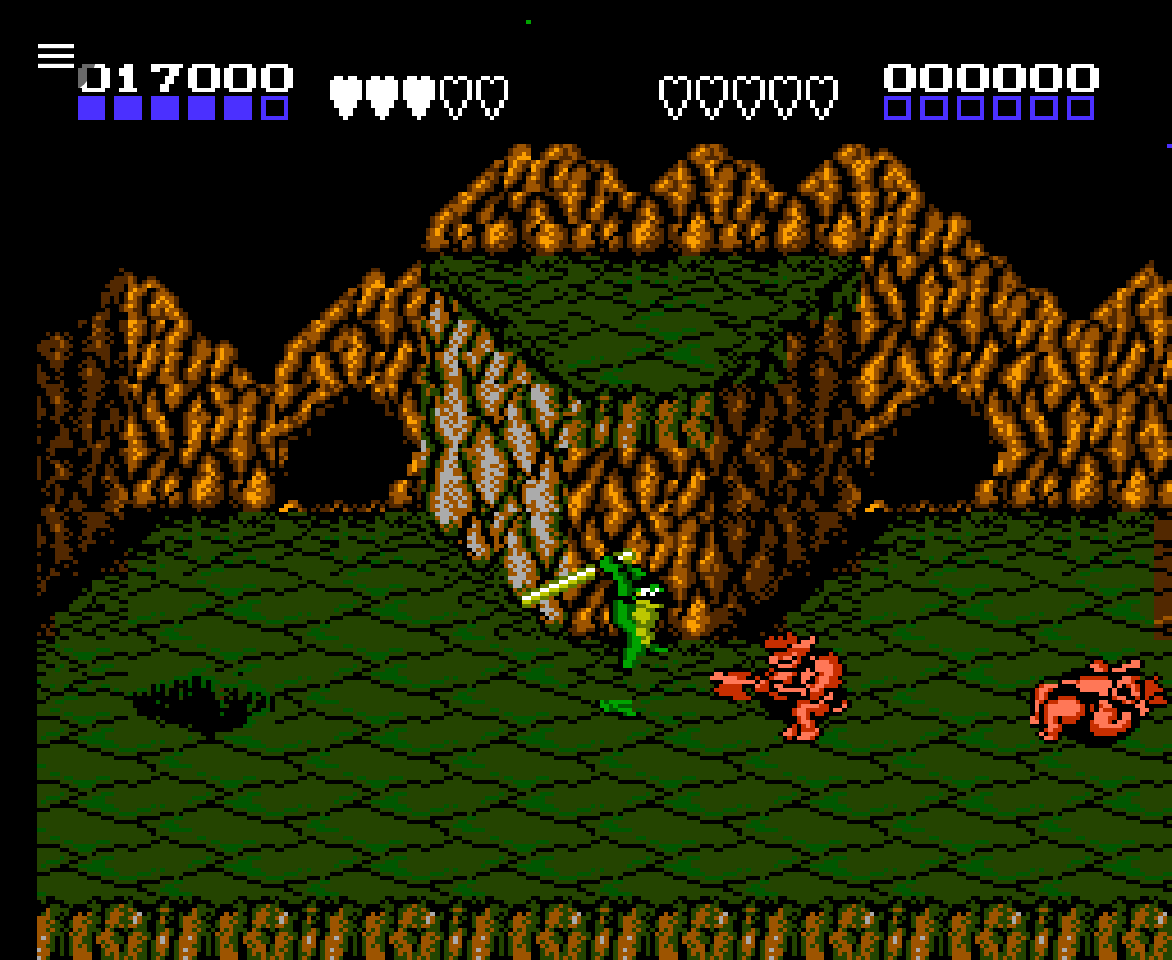
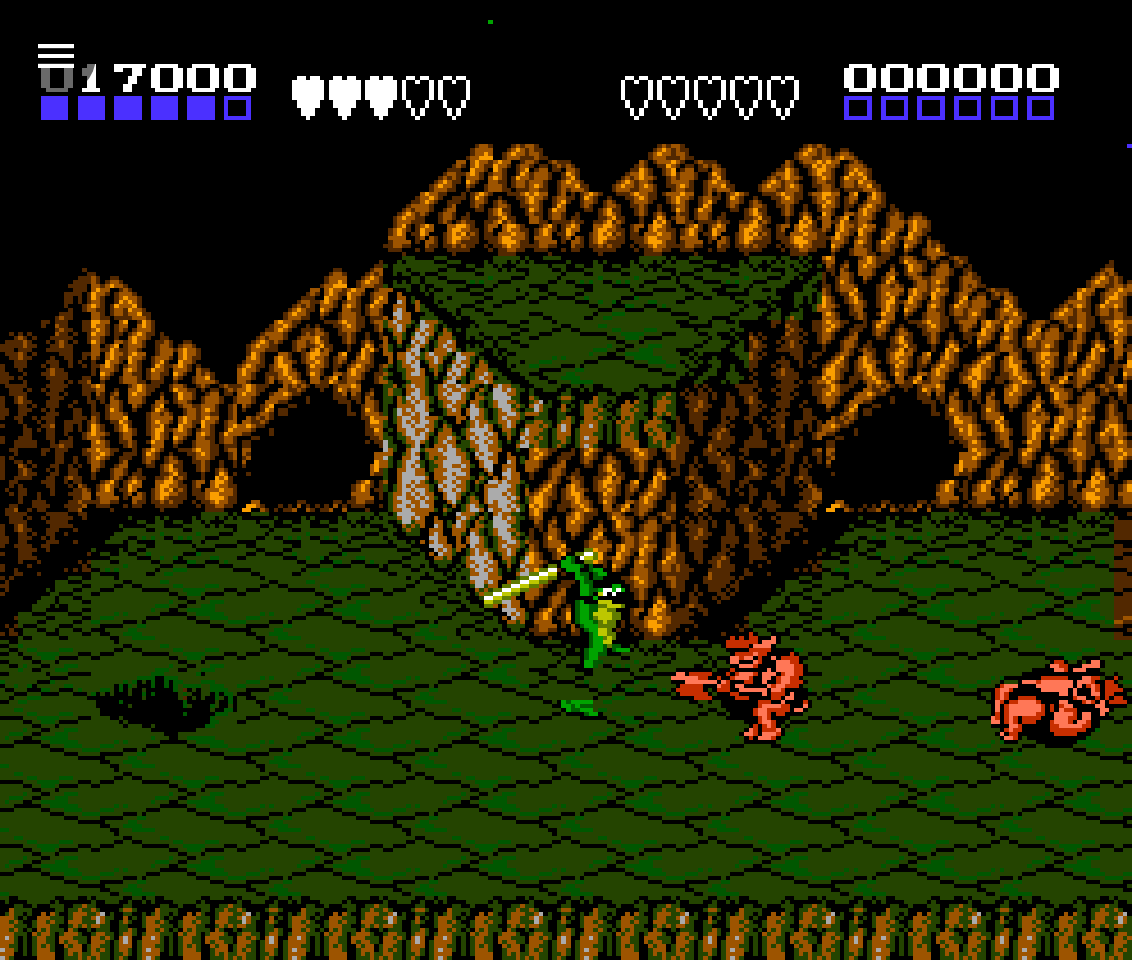
Update screenshots

diff --git a/packages/nesd/test/screenshots/readme_screenshots_test.dart b/packages/nesd/test/screenshots/readme_screenshots_test.dart
@@ -18,7 +18,10 @@ import 'package:flutter_test/flutter_test.dart';
 import 'package:nesd/ui/common/rom_tile.dart';
 import 'package:nesd/ui/emulator/display.dart';
 import 'package:nesd/ui/emulator/nes_controller.dart';
+import 'package:nesd/ui/emulator/overscan.dart';
 import 'package:nesd/ui/file_picker/file_system/filesystem_file.dart';
+import 'package:nesd/ui/file_picker/file_system/native_storage_filesystem.dart';
+import 'package:nesd/ui/file_picker/file_system/storage_filesystem.dart';
 import 'package:nesd/ui/router/router.dart';
 import 'package:nesd/ui/router/router_observer.dart';
 import 'package:nesd/ui/save_states/save_states_screen.dart';
@@ -30,8 +33,12 @@ const _romsDir = '../../roms/readme';
 const _statesDir = 'test/screenshots/states';
 const _docs = '../../docs';
 
-// NTSC NES display at 2x
-const _gameSize = Size(586, 480);
+// NTSC frame and pixel aspect ratio, shown at 2x
+const _frameWidth = 256;
+const _frameHeight = 240;
+const _pixelAspectRatio = 8 / 7;
+const _gameScale = 2.0;
+
 const _desktopSize = Size(1440, 900);
 const _desktopRatio = 2.0;
 
@@ -46,8 +53,66 @@ const _fixSmb = 'Super Mario Bros';
 const _fixSmb3 = 'Super Mario Bros. 3';
 const _fixZelda = 'The Legend Of Zelda';
 
-/// States saved into slots for the save-states screenshot.
 const _saveSlotStates = ['smb_slot0', 'smb_slot1', 'smb_slot2', 'smb_slot3'];
+
+const _overscan = {
+  _fixBattletoads: Overscan(left: 8, top: 0, bottom: 0),
+  _fixKirby: Overscan(left: 8, top: 0),
+  _fixPunchOut: Overscan.none,
+  _fixSmb: Overscan.none,
+  _fixSmb3: Overscan(top: 0),
+  _fixZelda: Overscan.none,
+};
+
+Overscan _overscanFor(String rom) => _overscan[rom] ?? const Overscan();
+
+class _PinnedTimeStorage implements StorageFilesystem {
+  _PinnedTimeStorage(this._inner);
+
+  final StorageFilesystem _inner;
+  final _modified = <String, DateTime>{};
+
+  static final _start = DateTime(2026, 9, 6, 12);
+
+  @override
+  Future<void> write(String path, Uint8List data) async {
+    await _inner.write(path, data);
+
+    if (path.endsWith('.state')) {
+      _modified[path] ??= _start.add(Duration(minutes: 5 * _modified.length));
+    }
+  }
+
+  @override
+  Future<DateTime?> lastModified(String path) async =>
+      _modified[path] ?? await _inner.lastModified(path);
+
+  @override
+  Future<void> delete(String path) async {
+    _modified.remove(path);
+
+    await _inner.delete(path);
+  }
+
+  @override
+  Future<Uint8List?> read(String path) => _inner.read(path);
+
+  @override
+  Future<bool> exists(String path) => _inner.exists(path);
+
+  @override
+  Future<List<String>> list(String directory) => _inner.list(directory);
+
+  @override
+  Future<void> createDirectory(String path) => _inner.createDirectory(path);
+}
+
+Size _gameWindow(Overscan overscan) {
+  final visible = overscan.visibleRect(_frameWidth, _frameHeight).size;
+  final width = (visible.width * _pixelAspectRatio).round();
+
+  return Size(width * _gameScale, visible.height * _gameScale);
+}
 
 Uint8List? _readOptional(String path) {
   final file = File(path);
@@ -89,6 +154,8 @@ Map<String, Uint8List>? _fixtures(List<String> roms, {List<String>? states}) {
 }
 
 Future<void> _startFromState(Robot r, String rom, {String? state}) async {
+  r.settings.overscan = _overscanFor(rom);
+
   var started = false;
 
   unawaited(
@@ -111,7 +178,6 @@ Future<void> _startFromState(Robot r, String rom, {String? state}) async {
   await r.waitUntil(
     () => r.container.read(currentRouteProvider) == EmulatorRoute.name,
   );
-  // await r.waitUntil(() => find.byType(MainMenu).evaluate().isEmpty);
 
   // let the route transition finish
   await r.pumpFrames(const Duration(milliseconds: 200));
@@ -201,7 +267,7 @@ void main() {
 
       await r.pumpApp(
         extraFiles: files,
-        logicalSize: _gameSize,
+        logicalSize: _gameWindow(_overscanFor(name)),
         devicePixelRatio: _desktopRatio,
       );
 
@@ -243,6 +309,7 @@ void main() {
       extraFiles: files,
       logicalSize: _desktopSize,
       devicePixelRatio: _desktopRatio,
+      storage: _PinnedTimeStorage(NativeStorageFilesystem()),
     );
 
     for (final (slot, state) in _saveSlotStates.indexed) {

diff --git a/packages/nesd/test/screenshots/play_screenshots_test.dart b/packages/nesd/test/screenshots/play_screenshots_test.dart
@@ -20,13 +20,14 @@ const _pixelRatio = 3.0;
 
 Future<Robot> _phoneApp(
   WidgetTester tester, {
+  Size size = _logicalSize,
   Map<String, Uint8List> extraFiles = const {},
 }) async {
   final robot = Robot(tester);
 
   await robot.pumpApp(
     extraFiles: extraFiles,
-    logicalSize: _logicalSize,
+    logicalSize: size,
     devicePixelRatio: _pixelRatio,
   );
 
@@ -56,7 +57,7 @@ void main() {
     await _capture(r, '01_main_menu');
   });
 
-  testWidgets('02_library', (tester) async {
+  testWidgets('05_library', (tester) async {
     final r = await _phoneApp(tester);
 
     r.settings.lastRomPath = const FilesystemFile(
@@ -68,19 +69,21 @@ void main() {
     await r.mainMenu.tapOpenRomButton();
     await tester.pumpAndSettle();
 
-    await _capture(r, '02_library');
+    await _capture(r, '05_library');
   });
 
-  testWidgets('03_settings', (tester) async {
+  testWidgets('04_settings', (tester) async {
     final r = await _phoneApp(tester);
 
-    await r.mainMenu.tapSettingsButton();
-    await tester.pumpAndSettle();
+    r.showFocusHighlights();
 
-    await _capture(r, '03_settings');
+    await r.mainMenu.tapSettingsButton();
+    await r.settingsScreen.focusFirstCategory();
+
+    await _capture(r, '04_settings');
   });
 
-  testWidgets('04_touch_controls', (tester) async {
+  testWidgets('02_touch_controls_narrow', (tester) async {
     final r = await _phoneApp(tester);
 
     r.settings.showTouchControls = true;
@@ -99,6 +102,28 @@ void main() {
 
     await r.waitUntil(() => find.byType(DisplayBuilder).evaluate().isNotEmpty);
 
-    await _capture(r, '04_touch_controls');
+    await _capture(r, '02_touch_controls_narrow');
+  });
+
+  testWidgets('03_touch_controls_wide', (tester) async {
+    final r = await _phoneApp(tester, size: _logicalSize.flipped);
+
+    r.settings.showTouchControls = true;
+
+    await r.settings.resetTouchInputConfigs(Orientation.landscape);
+
+    await tester.pumpAndSettle();
+
+    await r.mainMenu.tapSettingsButton();
+    await r.settingsScreen.openCategory(SettingsCategory.controls);
+
+    tester.takeException();
+
+    await r.settingsScreen.controls.tapTouchEditorButton();
+    await tester.pumpAndSettle();
+
+    await r.waitUntil(() => find.byType(DisplayBuilder).evaluate().isNotEmpty);
+
+    await _capture(r, '03_touch_controls_wide');
   });
 }

diff --git a/packages/nesd/test/ui/base_robot.dart b/packages/nesd/test/ui/base_robot.dart
@@ -1,6 +1,7 @@
 import 'package:flutter/material.dart';
 import 'package:flutter_riverpod/flutter_riverpod.dart';
 import 'package:flutter_test/flutter_test.dart';
+import 'package:nesd/ui/common/focus_first_descendant.dart';
 
 abstract class BaseRobot {
   BaseRobot(this.tester);
@@ -23,6 +24,28 @@ abstract class BaseRobot {
 
   Future<void> goBack() async {
     await go(find.byType(BackButton).last);
+  }
+
+  Future<void> expectAndFocus(Finder finder) async {
+    expectOne(finder);
+
+    final focus = find.descendant(of: finder, matching: find.byType(Focus));
+    final node =
+        tester.widget<Focus>(focus.first).focusNode ??
+        Focus.of(tester.element(focus.first));
+
+    focusFirstDescendant(node);
+
+    await tester.pumpAndSettle();
+  }
+
+  void showFocusHighlights() {
+    final focusManager = tester.binding.focusManager;
+    final previous = focusManager.highlightStrategy;
+
+    focusManager.highlightStrategy = FocusHighlightStrategy.alwaysTraditional;
+
+    addTearDown(() => focusManager.highlightStrategy = previous);
   }
 
   Future<void> expectAndTap(Finder finder) async {

diff --git a/packages/nesd/test/ui/settings/settings_robot.dart b/packages/nesd/test/ui/settings/settings_robot.dart
@@ -77,12 +77,16 @@ class SettingsScreenRobot extends BaseRobot {
     final navItem = find.byKey(SettingsNavPane.itemKey(category));
 
     if (navItem.evaluate().isNotEmpty) {
+      await tester.ensureVisible(navItem);
       await go(navItem);
 
       return;
     }
 
-    await go(find.byKey(SettingsCategoryList.rowKey(category)));
+    final row = find.byKey(SettingsCategoryList.rowKey(category));
+
+    await tester.ensureVisible(row);
+    await go(row);
   }
 
   void expectCategoryShown(SettingsCategory category) {
@@ -142,5 +146,14 @@ class SettingsScreenRobot extends BaseRobot {
 
     await tester.ensureVisible(finder);
     await go(finder);
+  }
+
+  Future<void> focusFirstCategory() async {
+    const general = SettingsCategory.general;
+
+    final navItem = find.byKey(SettingsNavPane.itemKey(general));
+    final row = find.byKey(SettingsCategoryList.rowKey(general));
+
+    await expectAndFocus(navItem.evaluate().isNotEmpty ? navItem : row);
   }
 }

diff --git a/packages/nesd/test/ui/settings/controls/controls_settings_robot.dart b/packages/nesd/test/ui/settings/controls/controls_settings_robot.dart
@@ -25,7 +25,10 @@ class ControlsSettingsRobot extends BaseRobot {
   }
 
   Future<void> tapTouchEditorButton() async {
-    await go(find.byType(TouchEditorButton));
+    final finder = find.byType(TouchEditorButton);
+
+    await tester.ensureVisible(finder);
+    await go(finder);
   }
 
   void expectGamepadSlotsFound() {
